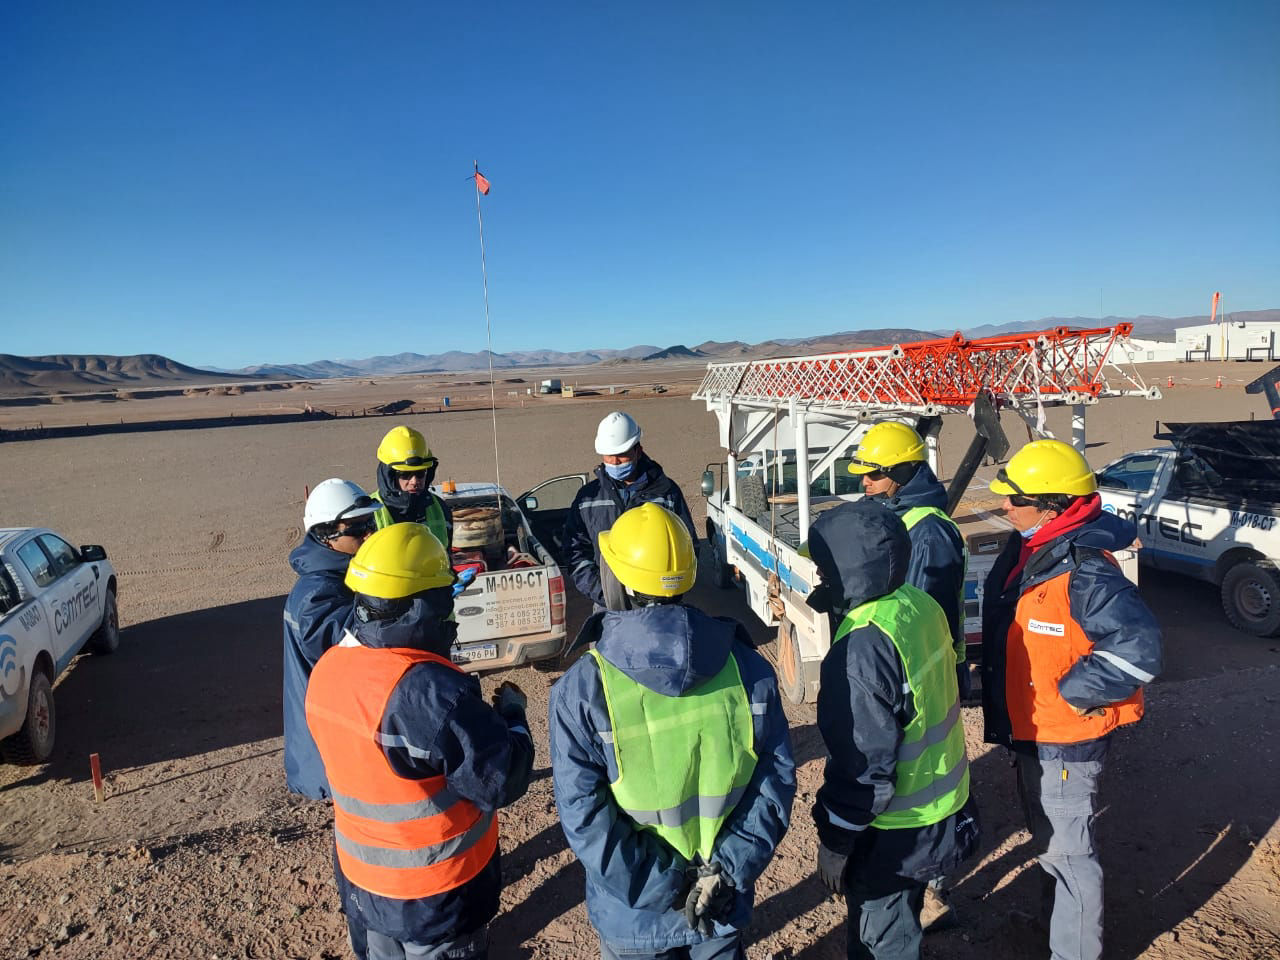
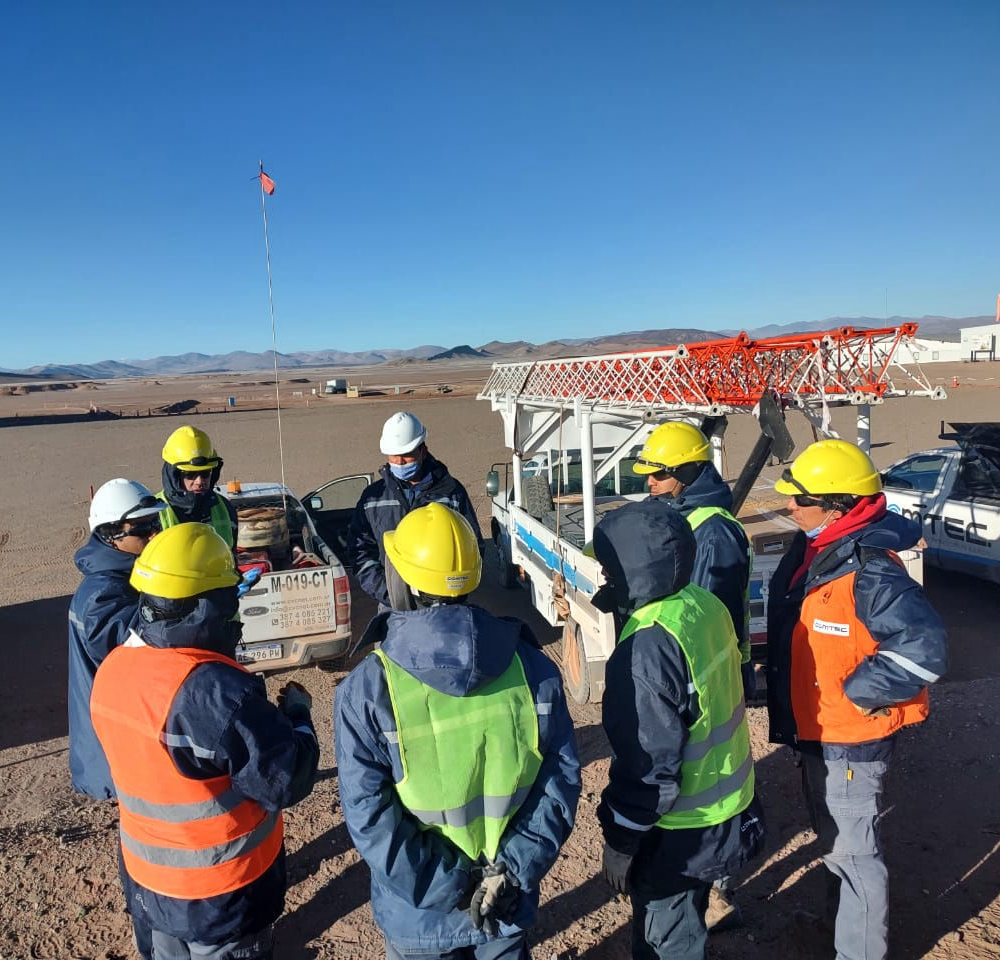
modificación de fotos del carrusel

diff --git a/pages/quienes-somos.html b/pages/quienes-somos.html
@@ -86,11 +86,9 @@
                     <img src="../img/carrusel3.jpeg" class="altura-carrusel" alt="...">
                   </div>
                   <div class="carousel-item">
-                    <!-- <img src="../img/carrusel4.jpeg" class="w-25" alt="..."> -->
                     <img src="../img/carrusel4.jpeg" class="altura-carrusel" alt="...">
                   </div>
                   <div class="carousel-item">
-                    <!-- <img src="../img/carrusel4.jpeg" class="w-25" alt="..."> -->
                     <img src="../img/carrusel5.jpg" class="altura-carrusel" alt="...">
                   </div>
                 </div>

diff --git a/pages/servicios.html b/pages/servicios.html
@@ -75,7 +75,7 @@
         <div class="grilla-item11">Venta, alquiler e instalación de servicios VHF</div>
         <div class="grilla-item12"></div>
         <div class="grilla-item13"></div>
-        <div class="grilla-item14">Consultoria</div>
+        <div class="grilla-item14">Consultoría</div>
         <div class="grilla-item15"></div>
         <div class="grilla-item16"></div>
 
